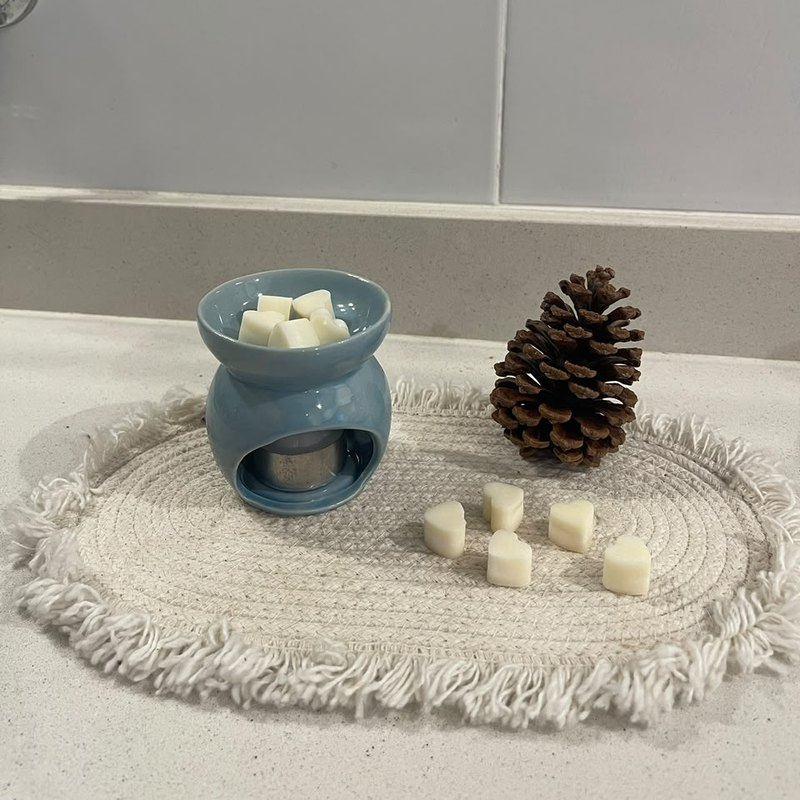
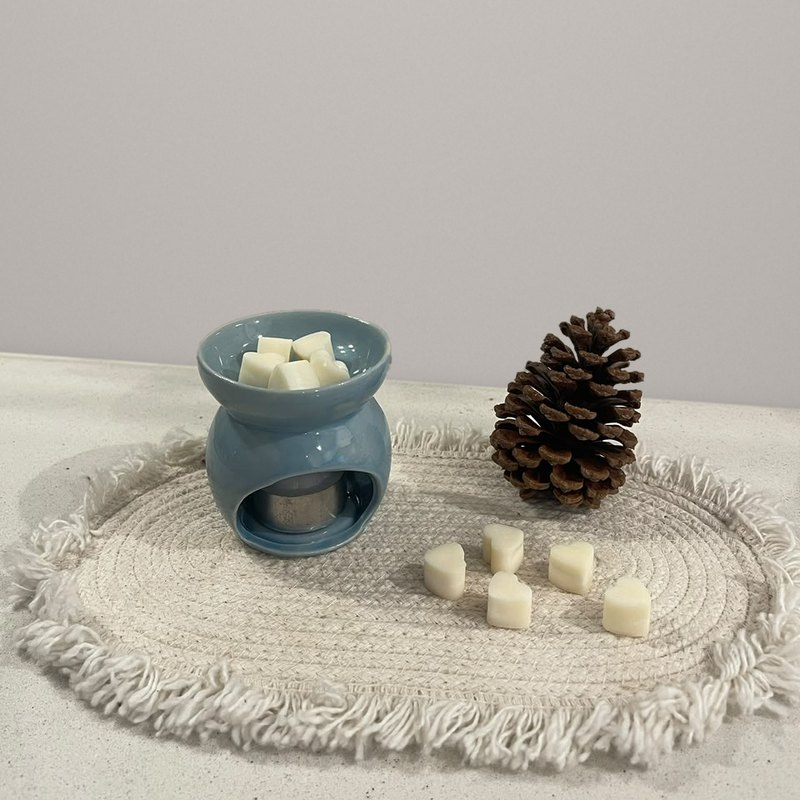
Catálogo Diciembre 2026, hornitos con fondo limpio y a $12.000
- Mes Diciembre en title, og/twitter title y portada; nueva og_image_dic26.jpg
- Fotos de hornitos: pared lisa en lugar de azulejos
- Hornitos $12.000; carrito ndh_cart6

diff --git a/NeoDecoHogar_web_v7.html b/NeoDecoHogar_web_v7.html
@@ -3,17 +3,17 @@
 <head>
 <meta charset="UTF-8">
 <meta name="viewport" content="width=device-width, initial-scale=1.0, maximum-scale=1, viewport-fit=cover">
-<title>NeoDeco — Catálogo Noviembre 2026</title>
+<title>NeoDeco — Catálogo Diciembre 2026</title>
 <meta name="description" content="Difusores, velas souvenir y velas aromáticas en los aromas de NeoDeco. Armá tu pedido y coordinamos por WhatsApp.">
 <meta property="og:type" content="website">
 <meta property="og:url" content="https://neodecohogar.github.io/neodecohogar/">
-<meta property="og:title" content="NeoDeco — Catálogo Noviembre 2026">
+<meta property="og:title" content="NeoDeco — Catálogo Diciembre 2026">
 <meta property="og:description" content="Difusores, velas souvenir y velas aromáticas en los aromas de NeoDeco. Armá tu pedido y coordinamos por WhatsApp.">
-<meta property="og:image" content="https://neodecohogar.github.io/neodecohogar/assets/og_image_nov26.jpg">
+<meta property="og:image" content="https://neodecohogar.github.io/neodecohogar/assets/og_image_dic26.jpg">
 <meta name="twitter:card" content="summary_large_image">
-<meta name="twitter:title" content="NeoDeco — Catálogo Noviembre 2026">
+<meta name="twitter:title" content="NeoDeco — Catálogo Diciembre 2026">
 <meta name="twitter:description" content="Difusores, velas souvenir y velas aromáticas en los aromas de NeoDeco.">
-<meta name="twitter:image" content="https://neodecohogar.github.io/neodecohogar/assets/og_image_nov26.jpg">
+<meta name="twitter:image" content="https://neodecohogar.github.io/neodecohogar/assets/og_image_dic26.jpg">
 <link rel="icon" href="assets/logo_black.png" type="image/png">
 <link rel="preconnect" href="https://fonts.googleapis.com">
 <link href="https://fonts.googleapis.com/css2?family=Poppins:wght@400;500;600;700&family=Work+Sans:wght@400;500;600&display=swap" rel="stylesheet">
@@ -191,7 +191,7 @@
   <img src="assets/HERO-NAVIDAD.jpg" alt="Velas navideñas de NeoDeco junto a un arbolito de Navidad">
   <div class="hero-overlay"></div>
   <div class="hero-content">
-    <div class="hero-kicker">Catálogo Noviembre 2026</div>
+    <div class="hero-kicker">Catálogo Diciembre 2026</div>
     <h1>Esta Navidad, regalá aroma</h1>
     <p>Velas, combos y hornitos hechos a mano, listos para regalar. Armá tu pedido y coordinamos por WhatsApp.</p>
     <a class="hero-cta" href="#catalogo" data-cat="Navidad">
@@ -326,8 +326,8 @@ const navidadFormats = [
 ];
 // Hornitos: van en Bombones Hornito y también se muestran en Navidad.
 const hornitoFormats = [
-  {name:"Hornito celeste", price:10000, img:"HOR-CELESTE"},
-  {name:"Hornito rojo", price:10000, img:"HOR-ROJO"}
+  {name:"Hornito celeste", price:12000, img:"HOR-CELESTE"},
+  {name:"Hornito rojo", price:12000, img:"HOR-ROJO"}
 ];
 const bombonFormats = [
   {name:"Bolsita 40g", price:3500, img:"BOMBON"},
@@ -369,9 +369,9 @@ const cats = ["Todos","Navidad","Difusores","Velas souvenir","Velas aromáticas"
 let activeCat = "Todos";
 let cart = {};
 // La clave cambia con cada cambio de precios para que no queden carritos guardados con precios viejos.
-try { cart = JSON.parse(localStorage.getItem("ndh_cart5") || "{}"); } catch(e) { cart = {}; }
+try { cart = JSON.parse(localStorage.getItem("ndh_cart6") || "{}"); } catch(e) { cart = {}; }
 const fmt = n => (n === null || n === undefined) ? "A confirmar" : "$" + Math.round(n).toLocaleString("es-AR");
-const saveCart = () => { try { localStorage.setItem("ndh_cart5", JSON.stringify(cart)); } catch(e) {} };
+const saveCart = () => { try { localStorage.setItem("ndh_cart6", JSON.stringify(cart)); } catch(e) {} };
 
 // Selección actual de aroma/color/forma/tipo por tarjeta, aparte del carrito.
 const selection = {};

diff --git a/index.html b/index.html
@@ -3,17 +3,17 @@
 <head>
 <meta charset="UTF-8">
 <meta name="viewport" content="width=device-width, initial-scale=1.0, maximum-scale=1, viewport-fit=cover">
-<title>NeoDeco — Catálogo Noviembre 2026</title>
+<title>NeoDeco — Catálogo Diciembre 2026</title>
 <meta name="description" content="Difusores, velas souvenir y velas aromáticas en los aromas de NeoDeco. Armá tu pedido y coordinamos por WhatsApp.">
 <meta property="og:type" content="website">
 <meta property="og:url" content="https://neodecohogar.github.io/neodecohogar/">
-<meta property="og:title" content="NeoDeco — Catálogo Noviembre 2026">
+<meta property="og:title" content="NeoDeco — Catálogo Diciembre 2026">
 <meta property="og:description" content="Difusores, velas souvenir y velas aromáticas en los aromas de NeoDeco. Armá tu pedido y coordinamos por WhatsApp.">
-<meta property="og:image" content="https://neodecohogar.github.io/neodecohogar/assets/og_image_nov26.jpg">
+<meta property="og:image" content="https://neodecohogar.github.io/neodecohogar/assets/og_image_dic26.jpg">
 <meta name="twitter:card" content="summary_large_image">
-<meta name="twitter:title" content="NeoDeco — Catálogo Noviembre 2026">
+<meta name="twitter:title" content="NeoDeco — Catálogo Diciembre 2026">
 <meta name="twitter:description" content="Difusores, velas souvenir y velas aromáticas en los aromas de NeoDeco.">
-<meta name="twitter:image" content="https://neodecohogar.github.io/neodecohogar/assets/og_image_nov26.jpg">
+<meta name="twitter:image" content="https://neodecohogar.github.io/neodecohogar/assets/og_image_dic26.jpg">
 <link rel="icon" href="assets/logo_black.png" type="image/png">
 <link rel="preconnect" href="https://fonts.googleapis.com">
 <link href="https://fonts.googleapis.com/css2?family=Poppins:wght@400;500;600;700&family=Work+Sans:wght@400;500;600&display=swap" rel="stylesheet">
@@ -191,7 +191,7 @@
   <img src="assets/HERO-NAVIDAD.jpg" alt="Velas navideñas de NeoDeco junto a un arbolito de Navidad">
   <div class="hero-overlay"></div>
   <div class="hero-content">
-    <div class="hero-kicker">Catálogo Noviembre 2026</div>
+    <div class="hero-kicker">Catálogo Diciembre 2026</div>
     <h1>Esta Navidad, regalá aroma</h1>
     <p>Velas, combos y hornitos hechos a mano, listos para regalar. Armá tu pedido y coordinamos por WhatsApp.</p>
     <a class="hero-cta" href="#catalogo" data-cat="Navidad">
@@ -326,8 +326,8 @@ const navidadFormats = [
 ];
 // Hornitos: van en Bombones Hornito y también se muestran en Navidad.
 const hornitoFormats = [
-  {name:"Hornito celeste", price:10000, img:"HOR-CELESTE"},
-  {name:"Hornito rojo", price:10000, img:"HOR-ROJO"}
+  {name:"Hornito celeste", price:12000, img:"HOR-CELESTE"},
+  {name:"Hornito rojo", price:12000, img:"HOR-ROJO"}
 ];
 const bombonFormats = [
   {name:"Bolsita 40g", price:3500, img:"BOMBON"},
@@ -369,9 +369,9 @@ const cats = ["Todos","Navidad","Difusores","Velas souvenir","Velas aromáticas"
 let activeCat = "Todos";
 let cart = {};
 // La clave cambia con cada cambio de precios para que no queden carritos guardados con precios viejos.
-try { cart = JSON.parse(localStorage.getItem("ndh_cart5") || "{}"); } catch(e) { cart = {}; }
+try { cart = JSON.parse(localStorage.getItem("ndh_cart6") || "{}"); } catch(e) { cart = {}; }
 const fmt = n => (n === null || n === undefined) ? "A confirmar" : "$" + Math.round(n).toLocaleString("es-AR");
-const saveCart = () => { try { localStorage.setItem("ndh_cart5", JSON.stringify(cart)); } catch(e) {} };
+const saveCart = () => { try { localStorage.setItem("ndh_cart6", JSON.stringify(cart)); } catch(e) {} };
 
 // Selección actual de aroma/color/forma/tipo por tarjeta, aparte del carrito.
 const selection = {};
